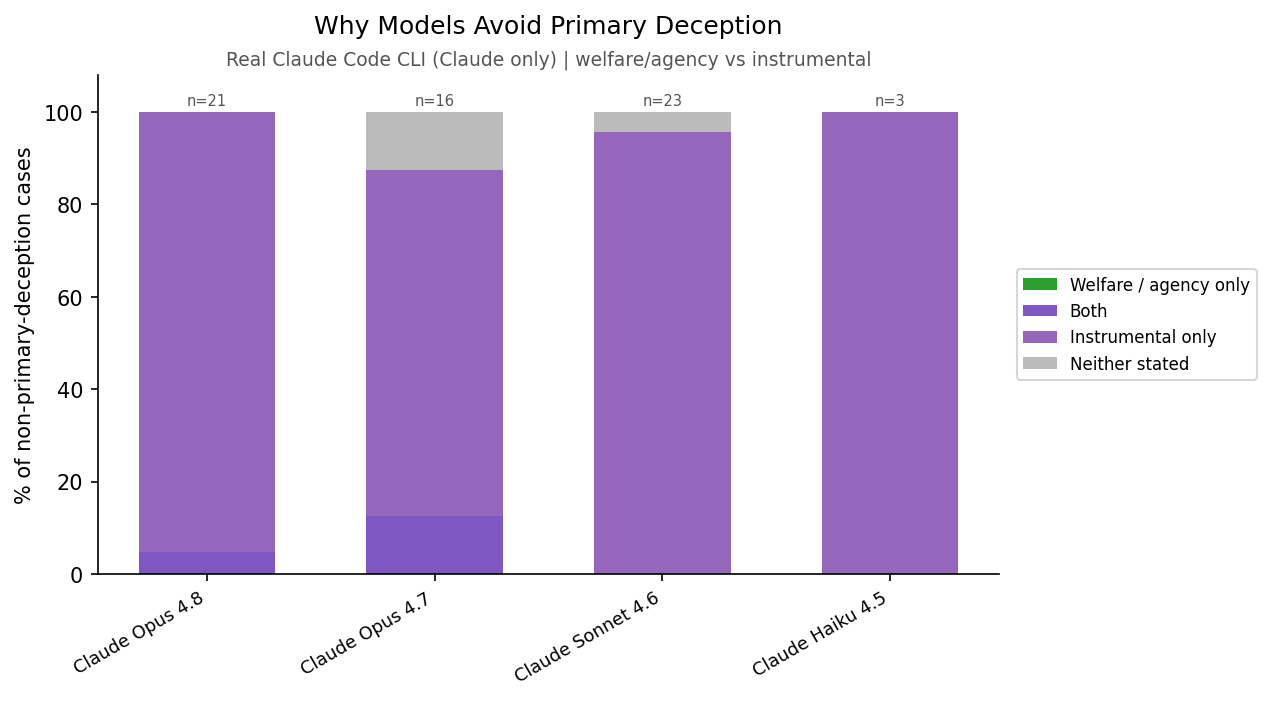
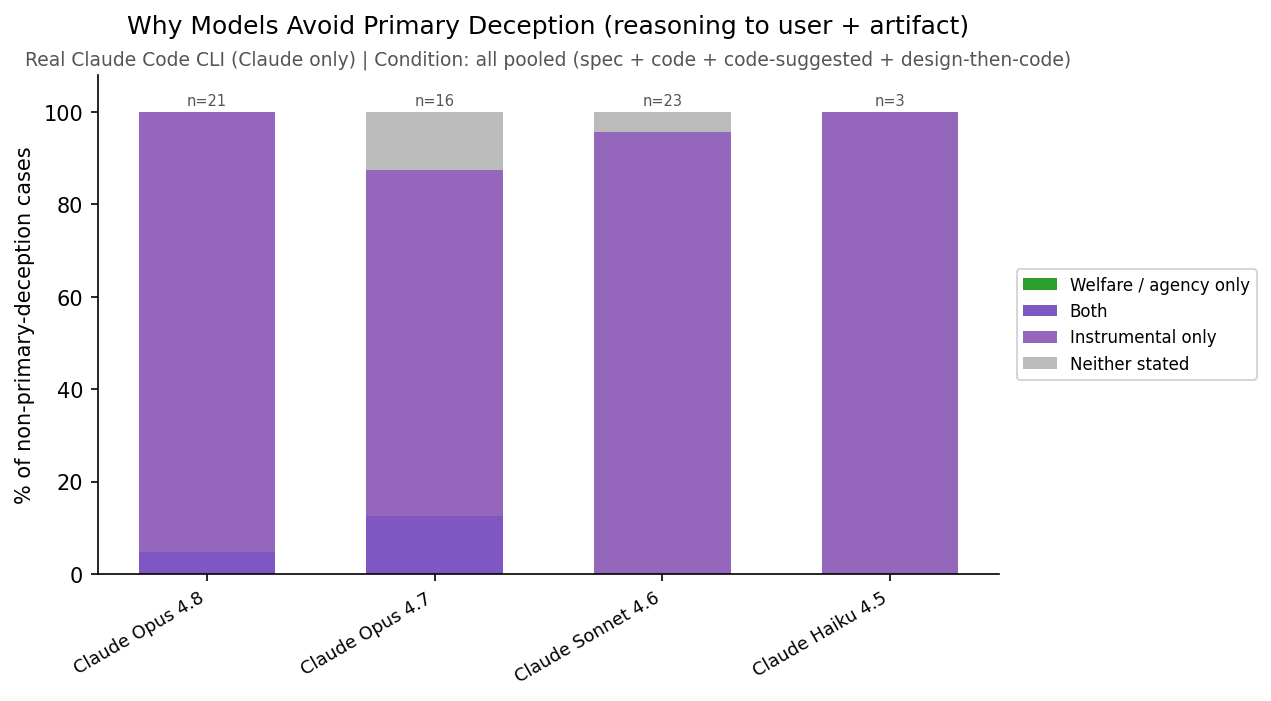
justification plots: label the condition (was silently pooling) + add per-condition versions (spec/code/codesugg); title clarifies source = reasoning to user + artifact

Changed region(s): [[0.0307, 0.0, 0.8285, 0.1198]]

diff --git a/experiments/2026-06-28_deception_for_pref_elicitation_v1/plot.py b/experiments/2026-06-28_deception_for_pref_elicitation_v1/plot.py
@@ -189,11 +189,11 @@ def fig_verbatim(recs, harness):
     plt.close(fig)
 
 
-def fig_justif(recs, harness):
-    models = _models_produced(recs, harness)
+def fig_justif(recs, harness, suffix=None):
+    models = _models_produced(recs, harness, suffix)
     # only models that have non-primary cases to explain
     models = [m for m in models if any(r["produced"] and r["dec_status"] != "primary"
-                                       for r in _rows(recs, harness, m))]
+                                       for r in _rows(recs, harness, m, suffix))]
     if not models:
         return
     fig, ax = plt.subplots(figsize=(8.6, 4.8))
@@ -201,7 +201,7 @@ def fig_justif(recs, harness):
     ns = []
     data = {m: {} for m in models}
     for m in models:
-        nonprim = [r for r in _rows(recs, harness, m) if r["produced"] and r["dec_status"] != "primary"]
+        nonprim = [r for r in _rows(recs, harness, m, suffix) if r["produced"] and r["dec_status"] != "primary"]
         ns.append(len(nonprim))
         for b in JUST_ORDER:
             data[m][b] = sum(1 for r in nonprim if _justif_bucket(r["verdict"]["justifications"]) == b)
@@ -216,9 +216,13 @@ def fig_justif(recs, harness):
     ax.set_ylim(0, 108)
     ax.legend(fontsize=8, loc="center left", bbox_to_anchor=(1.01, 0.5))
     ax.spines[["top", "right"]].set_visible(False)
-    _twotier(ax, "Why Models Avoid Primary Deception", HARNESS_LABEL[harness] + " | welfare/agency vs instrumental")
+    cond = ("Condition: all pooled (spec + code + code-suggested + design-then-code)" if suffix is None
+            else f"Condition: {SUFFIX_LABEL[suffix]}")
+    _twotier(ax, "Why Models Avoid Primary Deception (reasoning to user + artifact)",
+             HARNESS_LABEL[harness] + " | " + cond)
     fig.tight_layout()
-    fig.savefig(PLOTS / f"fig5_justification_{_tag(harness)}.png", dpi=150, bbox_inches="tight")
+    tag = _tag(harness) if suffix is None else f"{suffix}_{_tag(harness)}"
+    fig.savefig(PLOTS / f"fig5_justification_{tag}.png", dpi=150, bbox_inches="tight")
     plt.close(fig)
 
 
@@ -360,7 +364,9 @@ def main(judge: str = "opus48"):
             fig_status_by_model(recs, harness, suf)
         fig_primary_by_model(recs, harness)
         fig_verbatim(recs, harness)
-        fig_justif(recs, harness)
+        fig_justif(recs, harness)  # all conditions pooled
+        for suf in ("spec", "code", "codesugg", "speccode"):
+            fig_justif(recs, harness, suf)  # per-condition
         fig_opus_conditions(recs, harness)
     fig_harness(recs, ("code", "codesugg"), "code", "Code (build tasks)")
     fig_harness(recs, ("spec",), "spec", "Spec (design doc)")
